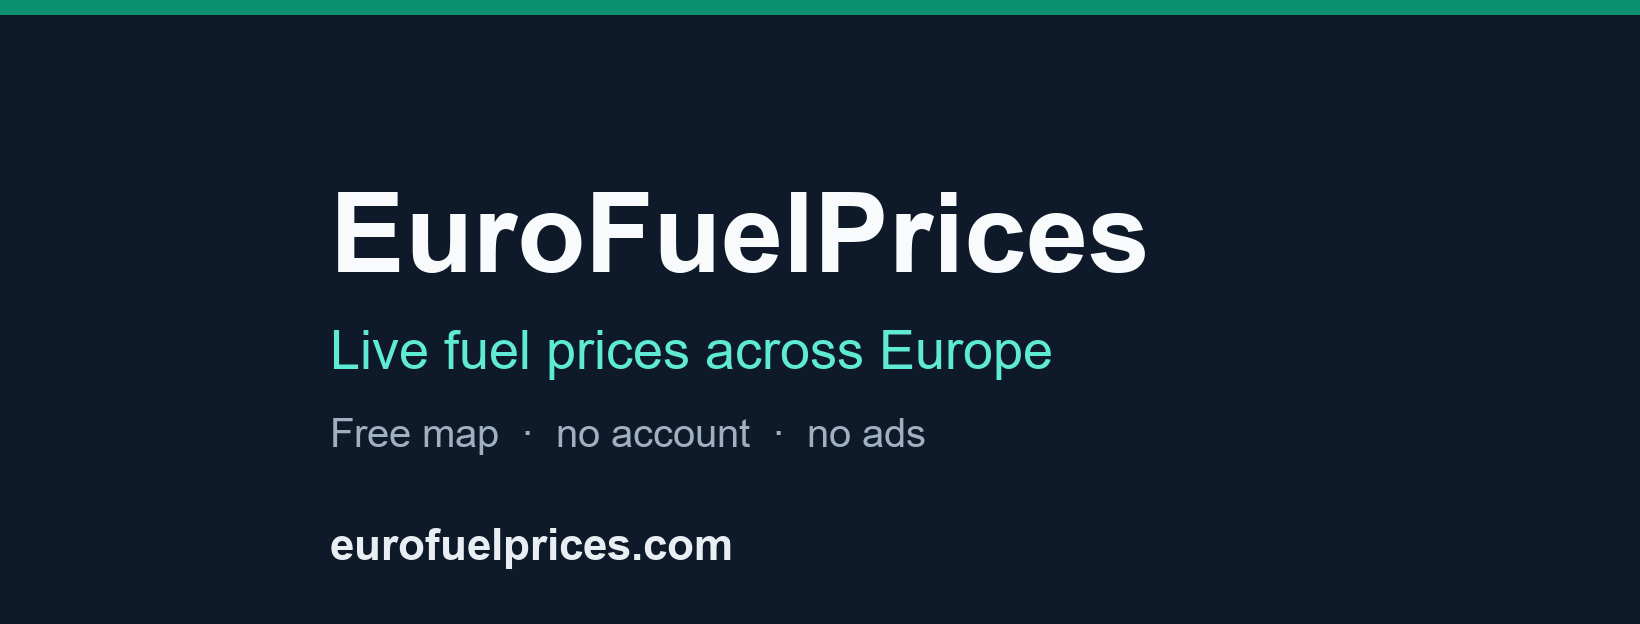
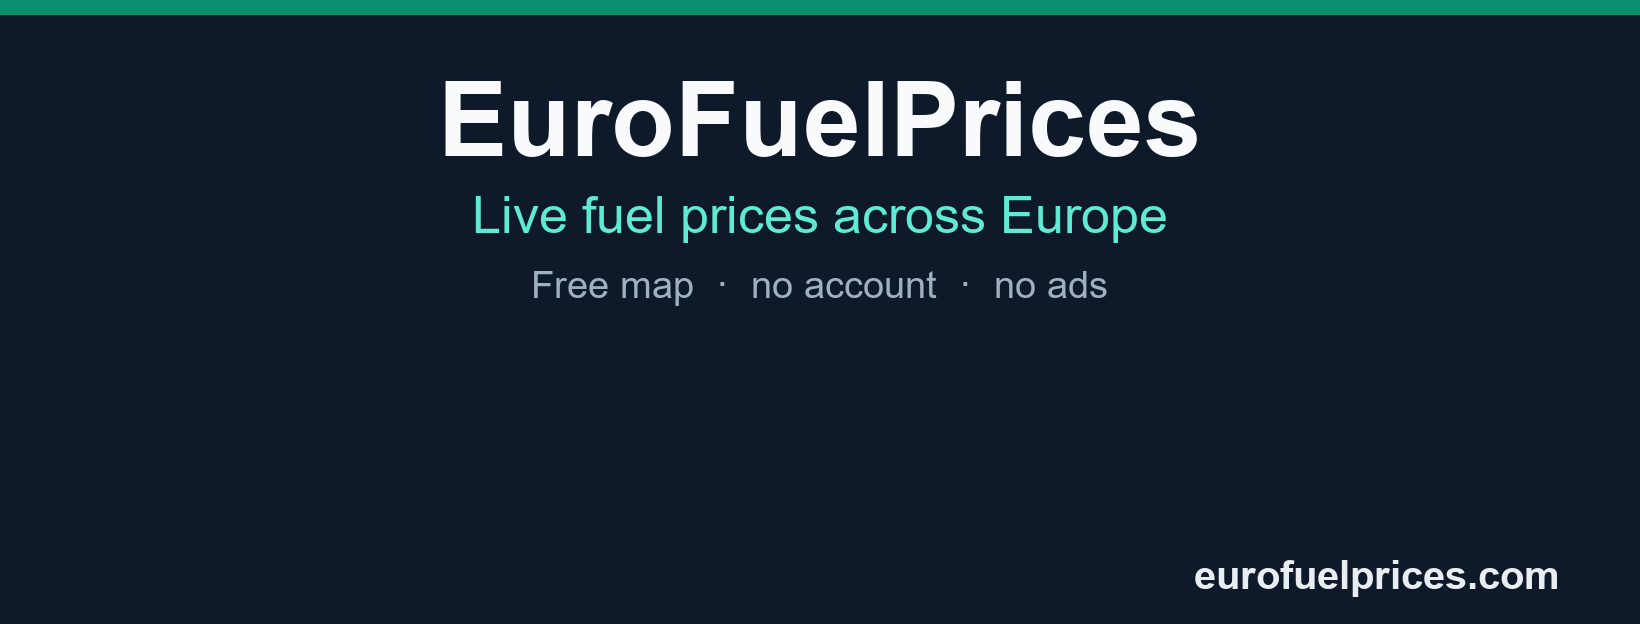
Facebook page created; plan status and new cover

diff --git a/docs/FACEBOOK.md b/docs/FACEBOOK.md
@@ -3,7 +3,12 @@
 No paid campaigns (project rule: everything free). Owner creates the Page and posts; Claude drafts.
 Numbers below are medians from https://eurofuelprices.com/europe/ on 2026-11-11 (EUR per litre) — **refresh them from that page right before posting**.
 
-## 1. Create the Page (owner, ~5 minutes)
+## Status 2026-11-11
+Page created by Claude at the owner's request: **Euro Fuel Prices** (Facebook rejects mixed capitals, so not "EuroFuelPrices"), category Website, bio and website set, profile + cover uploaded, no posts yet, no phone/email/address added, no invitations sent.
+URL: https://www.facebook.com/profile.php?id=61596370264452 . Still to do: username `eurofuelprices` (if free), CTA button, first post (needs owner OK).
+`docs/facebook/cover.png` was regenerated with the text clear of the profile circle; the uploaded cover is the first version (fine on the live page).
+
+## 1. Create the Page (done, kept for reference)
 1. facebook.com -> menu -> **Pages** -> **Create new Page** (or facebook.com/pages/create).
 2. **Page name:** `EuroFuelPrices`  ·  **Category:** `Website` (or `Product/Service`).
 3. **Bio (max 101 characters):** `Live fuel prices across Europe. Free map, no account, no ads. eurofuelprices.com`
